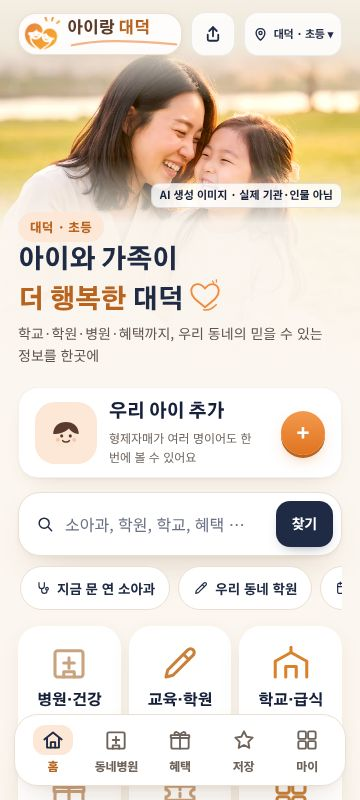
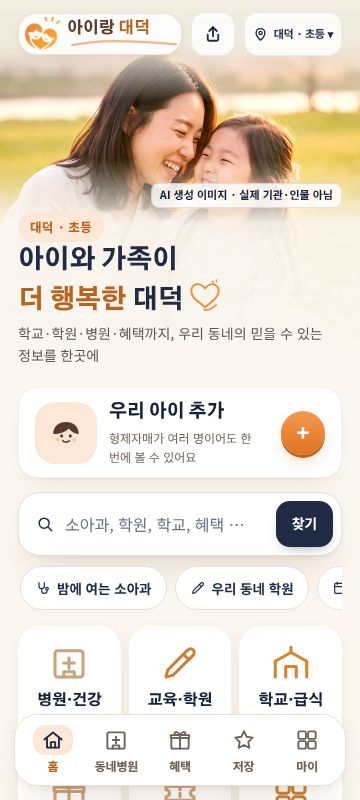
병원 표시 2차(피트 063): '20:00 이상 종료' 경계값 표시, '지금 진료 중'→'진료 예정 시간', 과목 거르기는 이름 대표 과목만(신고 과목만인 의원 제외) + 원자료 그대로 뽑기 도구·작업(읽기 전용) — 병원 공개 보류 유지
Claude-Session: https://claude.ai/code/session_01Av7xmGvufoCKB7F6raS8o2

Changed region(s): [[0.5194, 0.7188, 0.825, 0.75], [0.1528, 0.7188, 0.4278, 0.75], [0.9167, 0.7188, 0.9472, 0.75]]

diff --git a/app/index.html b/app/index.html
@@ -2854,7 +2854,7 @@ function hsToday(x) {
   const now = new Date(), s = x.h[(now.getDay() + 6) % 7] || "";
   if (s.length < 8) return { open: false, text: "오늘 진료시간 정보 없음(전화 확인)" };   // 2026-11-09 피트 038: 원자료 빈 칸 = 휴진이 아니라 정보 없음
   const a = +s.slice(0, 4), b = +s.slice(4, 8), t = now.getHours() * 100 + now.getMinutes(), f = v => String(v).padStart(4, "0").replace(/(\d\d)(\d\d)/, "$1:$2");
-  return { open: b > a ? t >= a && t < b : t >= a || t < b, text: `오늘 ${f(a)}~${f(b)}` };
+  return { open: b > a ? t >= a && t < b : t >= a || t < b, text: `오늘 진료 예정 ${f(a)}~${f(b)}` };   // 점심시간·접수 마감은 원자료에 없음(전화 확인)
 }
 // ───── 026 저장(즐겨찾기): 휴대폰 안 localStorage, 가입·서버 없음 ─────
 function favs() { try { const v = JSON.parse(store("edu.favs") || "[]"); return Array.isArray(v) ? v : []; } catch (e) { return []; } }
@@ -2903,7 +2903,7 @@ function hsSpecial(x) {
   if (!x.h || !x.h.length) return "";
   const W = ["월", "화", "수", "목", "금"], f = v => String(v).padStart(4, "0").replace(/(\d\d)(\d\d)/, "$1:$2"), one = t => t && t.length >= 8 ? `${f(t.slice(0, 4))}~${f(t.slice(4, 8))}` : "정보 없음(전화 확인)";
   const late = W.filter((_, i) => hsLate(x.h[i]));
-  const rows = [["야간(밤 8시 이후)", late.length ? late.map(d => `${d} ~${f(x.h[W.indexOf(d)].slice(4, 8))}`).join(", ") : (x.h.slice(0, 5).some(t => !t || t.length < 8) ? "없음 · 일부 요일 정보 없음" : "없음")], ["토요일", one(x.h[5])], ["일요일", one(x.h[6])], ["공휴일", one(x.h[7])]];
+  const rows = [["야간(20:00 이상 종료)", late.length ? late.map(d => `${d} ~${f(x.h[W.indexOf(d)].slice(4, 8))}`).join(", ") : (x.h.slice(0, 5).some(t => !t || t.length < 8) ? "없음 · 일부 요일 정보 없음" : "없음")], ["토요일", one(x.h[5])], ["일요일", one(x.h[6])], ["공휴일", one(x.h[7])]];
   return `<div class="kv hs-special" style="margin-top:8px">${rows.map(([k, v]) => `<b>${k}</b><span>${esc(v)}</span>`).join("")}</div>`;
 }
 function hsDetail(list, i) { const x = ((HOSP || {})[list] || [])[i]; if (x) hsSheet(x); }
@@ -2937,17 +2937,17 @@ function hsRow(x, er) {
   const rvNote = x.rv && x.rv.f && x.rv.f.length ? `<div class="rv-note" role="status">⏳ <b>${esc([...new Set(x.rv.f.map(f => RVF[f] || f))].join("·"))} 확인 중</b><span class="rv-meta">확인 시작 ${esc(x.rv.since || "—")}${x.rv.due ? ` · 확인 기한 ${esc(x.rv.due)}` : ""} · 상태: 공식 확인 전(바뀐 칸은 보여 드리지 않아요)</span><span class="rv-meta">가기 전에 병원에 전화로 확인해 주세요.</span></div>` : "";
   const favB = favBtn({ t: "hosp", id: (x.n || "") + "|" + (x.a || ""), n: x.n, sub: x.p || k, route: "hosp" });
   return `<div class="lift" style="padding:14px 16px;margin-bottom:10px">
-    <div style="display:flex;gap:6px;align-items:center;flex-wrap:wrap">${kindTag}${x.rv ? tag("확인 중", "#FFF6E5", "#8A5A00") : ""}${td ? (td.open ? tag(k === "약국" ? "지금 영업 중" : "지금 진료 중", "#E6F6EF", "#127A52") : tag(k === "약국" ? "영업 시간 아님" : "진료 시간 아님", "#F1F3F8", "#5C6478")) : ""}${km != null ? tag(km < 1 ? Math.round(km * 1000) + "m" : km.toFixed(1) + "km", "#F4F2FF", "#5B4FD6") : ""}</div>
+    <div style="display:flex;gap:6px;align-items:center;flex-wrap:wrap">${kindTag}${x.rv ? tag("확인 중", "#FFF6E5", "#8A5A00") : ""}${td ? (td.open ? tag(k === "약국" ? "지금 영업 중" : "진료 예정 시간 안", "#E6F6EF", "#127A52") : tag(k === "약국" ? "영업 시간 아님" : "진료 예정 시간 아님", "#F1F3F8", "#5C6478")) : ""}${km != null ? tag(km < 1 ? Math.round(km * 1000) + "m" : km.toFixed(1) + "km", "#F4F2FF", "#5B4FD6") : ""}</div>
     <div style="display:flex;gap:8px;align-items:flex-start;margin-top:6px"><button style="flex:1;min-width:0;text-align:left;background:none;border:0;padding:0;font:inherit;color:inherit;cursor:pointer;min-height:44px" onclick="hsOpenByKey(${esc(JSON.stringify((x.n || "") + "|" + (x.a || "")))})"><div style="font-size:15.5px;font-weight:800;line-height:1.4">${esc(x.n)} <span class="sub" style="font-weight:700;color:var(--navy)">상세 ›</span></div>
     <div class="hs-sub">${deptLine(x)}${x.a ? `<span class="hs-addr">${esc(x.a)}</span>` : ""}${td ? `<span style="display:block">${esc(td.text)}</span>` : ""}</div></button>${favB}</div>${rvNote}
     <div style="display:flex;gap:8px;margin-top:10px">${tel ? `<a class="btn ${er ? "btn-3d" : "btn-soft"}" style="flex:1;height:38px;font-size:13px;text-decoration:none" href="tel:${esc(tel)}" onclick="trackEvent('병원-전화${er ? "-응급실" : ""}')">📞 전화</a>` : ""}<a class="btn btn-soft" style="flex:1;height:38px;font-size:13px;text-decoration:none" href="${esc(map)}" target="_blank" rel="noopener" onclick="trackEvent('병원-길찾기')">📍 길찾기</a>${x.u ? `<a class="btn btn-soft" style="flex:1;height:38px;font-size:13px;text-decoration:none" href="${esc(x.u)}" target="_blank" rel="noopener" onclick="trackEvent('병원-홈페이지')">홈페이지 ›</a>` : ""}</div></div>`;
 }
 function homeOpenKids() {   // 홈: 지금 문 연 소아과 바로가기 (밤·주말엔 문구를 바꿔요)
   const n = new Date(), h = n.getHours(), wk = n.getDay() === 0 || n.getDay() === 6;
-  const sub = h >= 19 || h < 8 ? "밤에도 여는 곳이 있는지 바로 확인" : wk ? "주말에 여는 곳만 골라서 보기" : "지금 진료 중인 곳만 골라서 보기";
+  const sub = h >= 19 || h < 8 ? "밤에도 여는 곳이 있는지 바로 확인" : wk ? "주말에 여는 곳만 골라서 보기" : "오늘 진료 예정 시간인 곳만 보기 · 전화 확인";
   return `<button class="lift" onclick="hsOpenKids()" style="display:flex;align-items:center;gap:12px;width:100%;margin:12px 0 0;padding:12px 14px;border:0;border-radius:16px;background:var(--card,#fff);text-align:left;cursor:pointer;font:inherit;color:inherit">${e3d("🩺", 34)}<span style="flex:1;min-width:0"><b style="display:block;font-size:14.5px">지금 문 연 소아과</b><span style="font-size:12px;color:var(--muted)">${sub}</span></span><span style="font-size:18px;color:var(--muted)">›</span></button>`;
 }
-function hsOpenKids() { hsTab = "clinic"; hsDept = "소아청소년과"; hsOf = "🟢 지금 진료 중"; hsGu = "전체"; hsQ = ""; hsMore = 40; trackEvent("병원-지금소아과"); if (location.hash === "#hosp") viewHosp(); else go("hosp"); }
+function hsOpenKids() { hsTab = "clinic"; hsDept = "소아청소년과"; hsOf = "🕘 진료 예정 시간 안"; hsGu = "전체"; hsQ = ""; hsMore = 40; trackEvent("병원-지금소아과"); if (location.hash === "#hosp") viewHosp(); else go("hosp"); }
 // P0-4(2026-11-03): 대표 과목(p, 이름 기준)을 먼저, 국립중앙의료원 '신고 과목'은 따로 구분해 표시 — 정신건강의학과의원이 "내과·소아청소년과"로 보이던 문제
 function deptLine(x) {
   const p = x.p || "", rest = (x.d || []).filter(d => d !== p).slice(0, 3);
@@ -2974,11 +2974,11 @@ function viewHosp(keepFocus) {
     const ds = ["전체", ...(HOSP.depts || []).filter(d => list.some(x => (x.d || []).includes(d)))];
     if (!ds.includes(hsDept)) hsDept = "전체";
     depts = `<div class="chips-scroll" aria-label="진료 과목으로 거르기">${ds.map(d => chip("dept", d, hsDept === d)).join("")}</div>`;   // 027: 가로 스크롤 + 오른쪽 흐림(더 있음 표시)
-    if (hsDept !== "전체") list = list.filter(x => (x.p ? x.p === hsDept : (x.d || []).includes(hsDept)) && (hsDept === "치과") === (x.k || "").startsWith("치과"));   // 2026-11-09 피트 038: 신고 과목만으로는 그 과 검색·'지금 진료 중 소아과'에 넣지 않음(대표 과목 기준) if (hsDept !== "전체") { const re = new RegExp(HS_HINT[hsDept] || hsDept); list.sort((a, b) => (re.test(a.n) ? 0 : 1) - (re.test(b.n) ? 0 : 1)); }  // 이름에 그 과가 있는 의원 먼저
+    if (hsDept !== "전체") list = list.filter(x => x.p === hsDept && (hsDept === "치과") === (x.k || "").startsWith("치과"));   // 2026-11-09 피트 038: 신고 과목만으로는 그 과 검색·'지금 진료 중 소아과'에 넣지 않음(대표 과목 기준) if (hsDept !== "전체") { const re = new RegExp(HS_HINT[hsDept] || hsDept); list.sort((a, b) => (re.test(a.n) ? 0 : 1) - (re.test(b.n) ? 0 : 1)); }  // 이름에 그 과가 있는 의원 먼저
   }
-  if (hsTab === "clinic" || hsTab === "hosp") {   // 의원·병원: 지금 진료 / 밤 8시 이후 / 일요일·공휴일
+  if (hsTab === "clinic" || hsTab === "hosp") {   // 의원·병원: 진료 예정 시간 안 / 20:00 이상 종료 / 일요일·공휴일 (2026-11-09 피트 063)
     const late = t => t && t.length >= 8 && (+t.slice(4) >= 2000 || +t.slice(4) < +t.slice(0, 4));
-    const OF = { "🟢 지금 진료 중": x => (hsToday(x) || {}).open, "🌙 밤 8시 이후": x => x.h && x.h.slice(0, 5).some(late), "📅 일요일·공휴일": x => x.h && (x.h[6] || x.h[7]) };
+    const OF = { "🕘 진료 예정 시간 안": x => (hsToday(x) || {}).open, "🌙 20:00 이상 종료": x => x.h && x.h.slice(0, 5).some(late), "📅 일요일·공휴일": x => x.h && (x.h[6] || x.h[7]) };
     if (!OF[hsOf]) hsOf = "전체";
     depts += `<div class="chips-wrap" aria-label="진료 시간으로 거르기">${["전체", ...Object.keys(OF)].map(v => chip("of", v, hsOf === v, v === "전체" ? "진료 시간 전체" : v)).join("")}</div>`;   // 027: 잘리지 않게 줄바꿈
     if (hsOf !== "전체") list = list.filter(OF[hsOf]);

diff --git a/tools/hosp_raw.py b/tools/hosp_raw.py
@@ -1,0 +1,68 @@
+#!/usr/bin/env python3
+"""병원 기관 ID(hpid)별 국립중앙의료원 공식 원자료 그대로 뽑기 v01후보 (2026-11-09, 피트 063 재검수 요청)
+
+  WEATHER_KEY=… python3 tools/hosp_raw.py A1602873 A1234567 …  →  output/hosp_raw.json, output/hosp_raw.md
+
+- 국립중앙의료원 '병·의원 기본정보 조회'(HsptlAsembySearchService/getHsptlBassInfoInqire)에 hpid 하나씩 물어 응답 필드를 고치지 않고 그대로 남김
+- 빈 값은 빈 값 그대로(앱이 휴진·운영으로 바꿨는지 피트가 대조할 수 있게)
+- 앱 수집본(review/<구>/hospitals.json)의 같은 기관 값을 옆에 붙임
+- 공개 기관 정보만(개인정보 없음). 아무것도 공개·배포하지 않음
+"""
+import json, os, sys, time, urllib.parse, urllib.request, xml.etree.ElementTree as ET, glob
+from datetime import datetime, timedelta, timezone
+sys.path.insert(0, os.path.dirname(os.path.dirname(os.path.abspath(__file__))))
+URL = "https://apis.data.go.kr/B552657/HsptlAsembySearchService/getHsptlBassInfoInqire"
+KEY = os.environ.get("WEATHER_KEY", "").strip()
+KST = timezone(timedelta(hours=9))
+FIELDS = ["hpid", "dutyName", "dutyAddr", "dutyTel1", "dgidIdName", "dutyDivNam"] + [f"dutyTime{i}{x}" for i in range(1, 9) for x in "sc"] + ["dutyInf", "dutyEtc", "dutyLunch"]
+DAY = ["월", "화", "수", "목", "금", "토", "일", "공휴일"]
+
+def fetch(hpid):
+    q = urllib.parse.urlencode({"serviceKey": urllib.parse.unquote(KEY), "HPID": hpid, "pageNo": 1, "numOfRows": 10})
+    with urllib.request.urlopen(urllib.request.Request(f"{URL}?{q}", headers={"User-Agent": "airang-review"}), timeout=30) as r:
+        txt = r.read().decode("utf-8", "replace")
+    at = datetime.now(KST).strftime("%Y-%m-%d %H:%M:%S")
+    root = ET.fromstring(txt)
+    it = root.find(".//item")
+    raw = {f: (it.findtext(f) if it is not None and it.find(f) is not None else None) for f in FIELDS} if it is not None else None
+    return {"hpid": hpid, "fetched_at": at, "resultCode": root.findtext(".//resultCode"), "raw": raw,
+            "raw_all_fields": ({c.tag: c.text for c in it} if it is not None else None)}
+
+def app_row(hpid):
+    for f in glob.glob("review/*/hospitals.json"):
+        d = json.load(open(f, encoding="utf-8"))
+        for k in ("clinics", "hospitals"):
+            for x in d.get(k, []):
+                if x.get("id") == hpid: return {"gu": f.split("/")[1], "collected": d.get("fetched_at"), **{k2: x.get(k2) for k2 in ("n", "a", "t", "p", "d", "h")}}
+    return None
+
+def main(ids):
+    if not KEY: sys.exit("WEATHER_KEY 없음")
+    out = []
+    for h in ids:
+        try: r = fetch(h)
+        except Exception as e: r = {"hpid": h, "fetched_at": datetime.now(KST).strftime("%Y-%m-%d %H:%M:%S"), "error": str(e)[:200]}
+        r["app"] = app_row(h); out.append(r); time.sleep(0.5)
+    os.makedirs("output", exist_ok=True)
+    json.dump(out, open("output/hosp_raw.json", "w", encoding="utf-8"), ensure_ascii=False, indent=1)
+    md = ["# 국립중앙의료원 원자료(고치지 않음) ↔ 앱 수집본", "", "빈 값은 '(빈 값)'으로 그대로 표시. 시간은 원자료 형식 HHMM.", ""]
+    for r in out:
+        raw, app = r.get("raw") or {}, r.get("app") or {}
+        md += [f"## {raw.get('dutyName') or (app.get('n') or '')} — hpid {r['hpid']}", f"- 조회 시각(원자료): {r['fetched_at']} · 결과 코드 {r.get('resultCode')} {r.get('error','')}", f"- 앱 수집 시각: {app.get('collected')}",
+               "", "| 항목 | 원자료 필드 = 값 | 앱에 들어간 값 |", "|---|---|---|",
+               f"| 이름 | dutyName = {raw.get('dutyName') or '(빈 값)'} | {app.get('n')} |",
+               f"| 주소 | dutyAddr = {raw.get('dutyAddr') or '(빈 값)'} | {app.get('a')} |",
+               f"| 전화 | dutyTel1 = {raw.get('dutyTel1') or '(빈 값)'} | {app.get('t')} |",
+               f"| 진료과목 | dgidIdName = {raw.get('dgidIdName') or '(빈 값)'} | 대표 {app.get('p') or '(없음)'} / 신고 {', '.join(app.get('d') or [])} |"]
+        for i, d in enumerate(DAY, 1):
+            s, c = raw.get(f"dutyTime{i}s"), raw.get(f"dutyTime{i}c")
+            a = (app.get("h") or [""] * 8)[i - 1] or ""
+            md.append(f"| {d} | dutyTime{i}s = {s or '(빈 값)'} · dutyTime{i}c = {c or '(빈 값)'} | {a[:4] + '~' + a[4:] if a else '(빈 칸 → 앱 표시: 정보 없음)'} |")
+        extra = {k: v for k, v in (r.get("raw_all_fields") or {}).items() if k not in FIELDS and v}
+        if extra: md.append(f"| 그 밖의 원자료 필드 | {json.dumps(extra, ensure_ascii=False)[:600]} | |")
+        md.append("")
+    open("output/hosp_raw.md", "w", encoding="utf-8").write("\n".join(md) + "\n")
+    print("\n".join(md[:30]))
+
+if __name__ == "__main__":
+    main(sys.argv[1:])
